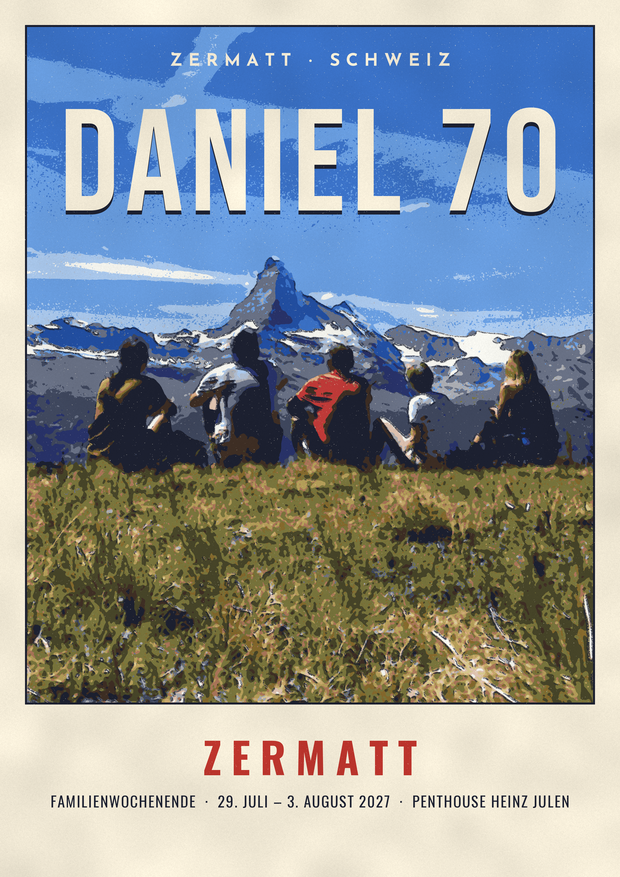
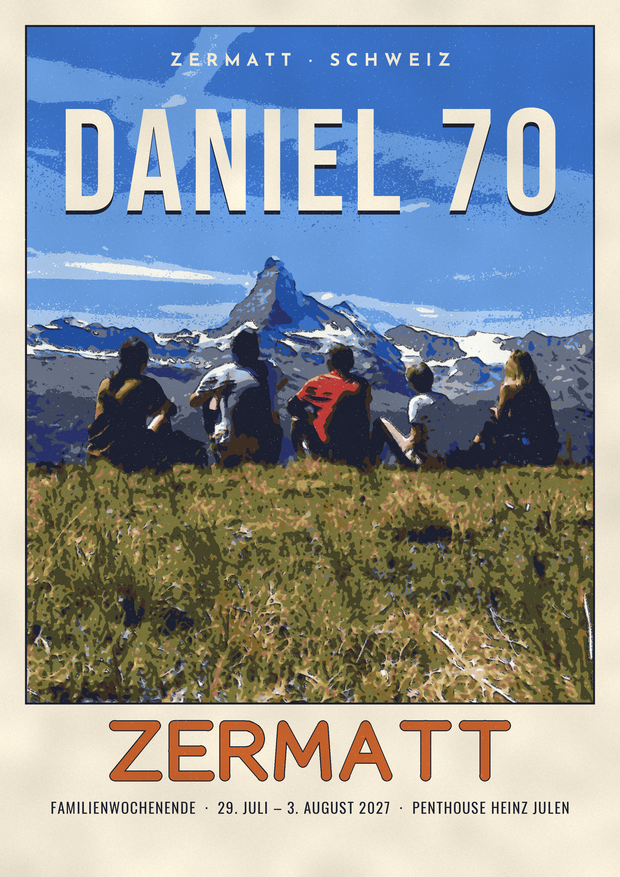
Variante C Plakat: ZERMATT im Handlettering nach Emil Cardinaux
Claude-Session: https://claude.ai/code/session_01EBdojvc5idDJTstk2DyY2w

Changed region(s): [[0.0919, 0.8005, 0.9194, 0.9236]]

diff --git a/litho.py b/litho.py
@@ -7,7 +7,7 @@ import urllib.request
 from pathlib import Path
 
 import numpy as np
-from PIL import Image, ImageEnhance, ImageFilter, ImageFont
+from PIL import Image, ImageDraw, ImageEnhance, ImageFilter, ImageFont
 from scipy import ndimage as ndi
 from scipy.special import ndtr
 
@@ -148,3 +148,44 @@ def freistellen(foto, schwelle=0.6, weich=2):
     rgba = foto.convert("RGBA")
     rgba.putalpha(Image.fromarray(m.astype(np.uint8) * 255))
     return rgba.crop(box)
+
+
+# --- Handlettering nach Emil Cardinaux (Zermatt, 1908) -------------------------
+# Jeder Buchstabe als gleichmässig breite Pinselstriche mit runden Enden,
+# Koordinaten in Einheiten der Versalhöhe (0 = oben, 100 = unten).
+def _bogen(cx, cy, r, von, bis, schritte=14):
+    w = np.linspace(np.radians(von), np.radians(bis), schritte)
+    return [(cx + r * np.cos(a), cy + r * np.sin(a)) for a in w]
+
+
+CARDINAUX_GLYPHEN = {
+    "Z": (74, [[(2, 2), (72, 2), (2, 98), (74, 98)]]),
+    "E": (60, [[(60, 2), (2, 2), (2, 98), (62, 98)], [(2, 50), (48, 50)]]),
+    "R": (66, [[(2, 98), (2, 2), (36, 2)] + _bogen(36, 27, 25, -90, 90) + [(2, 52)],
+               [(30, 52), (66, 98)]]),
+    "M": (84, [[(2, 98), (8, 2), (42, 72), (76, 2), (82, 98)]]),
+    "A": (76, [[(2, 98), (38, 2), (74, 98)], [(16, 64), (60, 64)]]),
+    "T": (74, [[(2, 2), (72, 2)], [(37, 2), (37, 98)]]),
+}
+
+
+def cardinaux_schrift(img, text, y, hoehe, farbe, konturfarbe, sperr=0.30, breit=1.12):
+    """Text im Handlettering des Cardinaux-Plakats zentriert auf img zeichnen."""
+    s = hoehe / 100
+    strich = round(hoehe * 0.17)
+    kontur = max(2, round(strich * 0.12))
+    breiten = [CARDINAUX_GLYPHEN[c][0] * s * breit for c in text]
+    x = (img.width - sum(breiten) - sperr * hoehe * (len(text) - 1)) / 2
+    d = ImageDraw.Draw(img)
+    zuege = []
+    for c, b in zip(text, breiten):
+        for zug in CARDINAUX_GLYPHEN[c][1]:
+            zuege.append([(x + px * s * breit, y + py * s) for px, py in zug])
+        x += b + sperr * hoehe
+    # erst die dunkle Kontur, dann die Farbe darüber
+    for breite, f in ((strich + 2 * kontur, konturfarbe), (strich, farbe)):
+        for zug in zuege:
+            d.line(zug, fill=f, width=breite, joint="curve")
+            for px, py in (zug[0], zug[-1]):
+                r = breite / 2
+                d.ellipse([px - r, py - r, px + r, py + r], fill=f)

diff --git a/variante_c_zeichnung.py b/variante_c_zeichnung.py
@@ -16,7 +16,8 @@ import numpy as np
 from scipy import ndimage as ndi
 from PIL import Image, ImageDraw, ImageOps
 
-from litho import B, H, font, lithografie, papier, passende_schrift, text_mitte
+from litho import (B, H, cardinaux_schrift, font, lithografie, papier, passende_schrift,
+                   text_mitte)
 
 # --- Texte -------------------------------------------------------------------
 TITEL = "DANIEL 70"
@@ -32,6 +33,7 @@ PLAKAT_INFO = "FAMILIENWOCHENENDE  ·  29. JULI – 3. AUGUST 2027  ·  PENTHOUS
 PAPIER = (242, 234, 214)
 TINTE = (28, 32, 48)
 ROT = (186, 52, 44)
+CARDINAUX_ORANGE = (196, 96, 44)  # Schriftfarbe des Zermatt-Plakats von Emil Cardinaux
 PALETTE = np.array([
     (28, 32, 48),     # Tinte
     (34, 78, 160),    # Himmel tief
@@ -113,8 +115,9 @@ def main(src, ziel, links=0.0, oben=0.0, breite=1.0, plakat_text=False):
     # Angaben im Papierfeld
     y = RAND + bh + 80
     if plakat_text:
-        text_mitte(d, y, PLAKAT_ORT, font("oswald700", 170), ROT, sperr=40)
-        text_mitte(d, y + 260, PLAKAT_INFO,
+        # "ZERMATT" im Handlettering des Cardinaux-Plakats
+        cardinaux_schrift(plakat, PLAKAT_ORT, y, 210, CARDINAUX_ORANGE, TINTE)
+        text_mitte(d, y + 285, PLAKAT_INFO,
                    passende_schrift(d, PLAKAT_INFO, "oswald400", 70, bb, 4), TINTE, sperr=4)
     else:
         flyer_text(d, y, bb)
